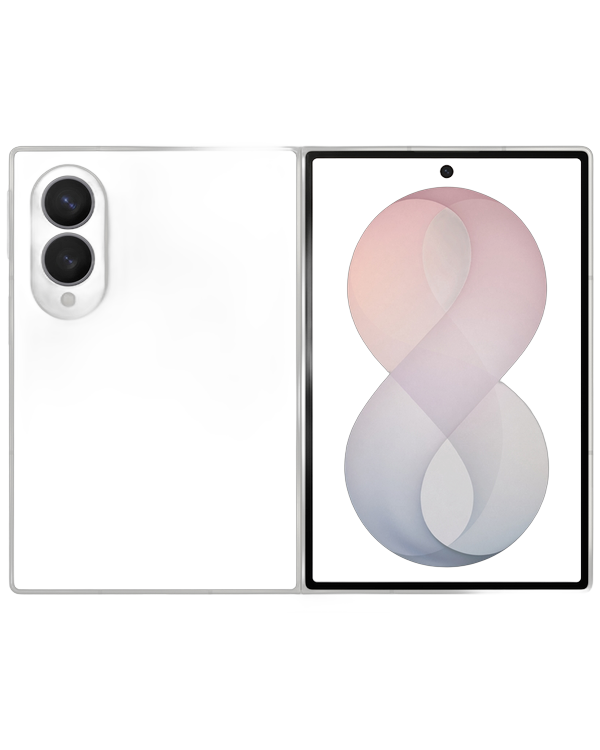
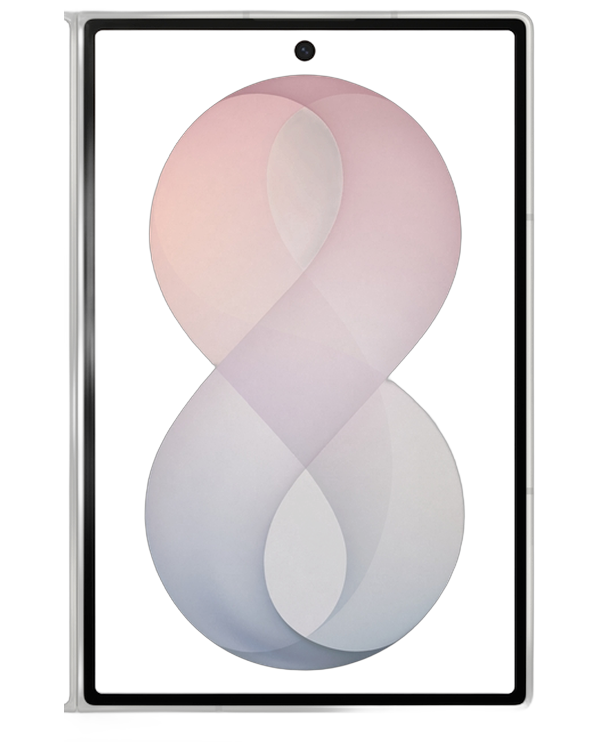
스펙표 이미지 규격 통일 + 색상 스와치 수정 + SEO 최적화
- 폴드8 에셋: 앞뒤 2대 가로 구도 → 펼친 정면 1대 크롭으로 재가공,
  3종 모두 동일 규격(600×750·컨텐츠 높이 통일) — 스펙표·쇼케이스 정렬 일치
- COLOR_HEX에 공식 색상 추가(크림·피스타치오·바이올렛/그린 쉐도우) — 회색 폴백 해소
- SEO: ① 스토어 구조화 데이터 보강(priceRange·hasMap·areaServed)
  ② devices/used에 BreadcrumbList, used에 Service(중고폰 매입) JSON-LD
  ③ 서브페이지 타이틀 키워드 최적화(마장역·중고폰 매입 시세 등)
  ④ JS 미실행 크롤러 대응 noscript 콘텐츠(devices/used)
  ⑤ og:locale·twitter:card 보강, privacy OG, sitemap lastmod, 404.html 신설
- 검증: JSON-LD 파스 전부 유효, Chromium 렌더 3페이지 에러 0

Claude-Session: https://claude.ai/code/session_01EsWowUKLJe4UgNPdG79sTE

diff --git a/used.html b/used.html
@@ -3,7 +3,7 @@
 <head>
 <meta charset="utf-8" />
 <meta name="viewport" content="width=device-width, initial-scale=1, viewport-fit=cover" />
-<title>공일모바일 | 중고폰 판매·매입</title>
+<title>중고폰 매입 시세·판매 — 아이폰·갤럭시 등급별 예상가 | 공일모바일 마장역점</title>
 <meta name="description" content="쓰던 폰은 투명한 등급 기준대로 매입하고, 중고폰은 매장에서 상태를 확인하고 구매하세요. 모델·등급별 예상 매입 범위를 먼저 확인할 수 있습니다. 최종 조건은 매장 상담에서 안내드립니다." />
 <link rel="icon" type="image/png" href="assets/logo.png" />
 <link rel="canonical" href="https://01mobile.co.kr/used.html" />
@@ -13,6 +13,34 @@
 <meta property="og:description" content="중고폰, 팔 때도 살 때도 투명하게 — 모델·등급별 예상 매입 범위를 먼저 확인하세요. 최종 조건은 매장 상담에서 안내드립니다." />
 <meta property="og:image" content="https://01mobile.co.kr/assets/og-image.jpg" />
 <meta property="og:url" content="https://01mobile.co.kr/used.html" />
+<meta property="og:locale" content="ko_KR" />
+<meta name="twitter:card" content="summary_large_image" />
+<script type="application/ld+json">
+{
+  "@context": "https://schema.org",
+  "@type": "BreadcrumbList",
+  "itemListElement": [
+    { "@type": "ListItem", "position": 1, "name": "홈", "item": "https://01mobile.co.kr/" },
+    { "@type": "ListItem", "position": 2, "name": "중고폰 판매·매입", "item": "https://01mobile.co.kr/used.html" }
+  ]
+}
+</script>
+<script type="application/ld+json">
+{
+  "@context": "https://schema.org",
+  "@type": "Service",
+  "name": "중고폰 매입·판매",
+  "serviceType": "휴대폰 중고 매입 및 판매",
+  "areaServed": ["성동구", "마장동", "왕십리"],
+  "provider": {
+    "@type": "MobilePhoneStore",
+    "name": "공일모바일",
+    "telephone": "+82-10-7932-9779",
+    "address": { "@type": "PostalAddress", "streetAddress": "마장로 305 1층", "addressLocality": "성동구", "addressRegion": "서울특별시", "addressCountry": "KR" }
+  },
+  "description": "아이폰·갤럭시 중고폰을 공개된 등급 기준(A/B/C)에 따라 매입합니다. 모델·등급별 예상 매입 범위를 온라인으로 먼저 확인할 수 있으며, 최종 매입가는 매장에서 기기 상태 확인 후 확정됩니다."
+}
+</script>
 <meta property="og:locale" content="ko_KR" />
 <meta name="twitter:card" content="summary_large_image" />
 
@@ -31,6 +59,15 @@
 </head>
 <body>
 <div id="root"></div>
+<noscript>
+  <div style="max-width:640px;margin:48px auto;padding:0 20px;line-height:1.7;">
+    <h1>공일모바일 — 중고폰 매입·판매</h1>
+    <p>아이폰 17·16·15·14·13 시리즈, 갤럭시 S26~S20·Z 폴드·Z 플립·A 시리즈 중고폰을
+    공개 등급 기준(A/B/C)으로 매입합니다. 모델·등급별 예상 매입 범위를 사이트에서 먼저 확인하고
+    방문하세요. 최종 매입가는 매장에서 기기 상태 확인 후 확정됩니다. 중고폰 구매도 가능합니다.</p>
+    <p>마장역 2번 출구 도보 1분 · <a href="tel:010-7932-9779">010-7932-9779</a> · <a href="index.html">홈으로</a></p>
+  </div>
+</noscript>
 
 <script type="text/babel" src="components.jsx"></script>
 <script type="text/babel" src="sections-bottom.jsx"></script>

diff --git a/devices.html b/devices.html
@@ -3,7 +3,7 @@
 <head>
 <meta charset="utf-8" />
 <meta name="viewport" content="width=device-width, initial-scale=1, viewport-fit=cover" />
-<title>공일모바일 | 기기 전체보기</title>
+<title>휴대폰 기기 전체보기 — 아이폰17·갤럭시 S26·폴드8 | 공일모바일 마장역점</title>
 <meta name="description" content="아이폰·갤럭시 플래그십부터 폴더블, 실속·효도폰까지 — 공일모바일이 취급하는 기기 라인업을 한눈에 보고 예상 월 납부액 범위를 확인하세요. 최종 조건은 매장 상담에서 투명하게 안내드립니다." />
 <link rel="icon" type="image/png" href="assets/logo.png" />
 <link rel="canonical" href="https://01mobile.co.kr/devices.html" />
@@ -13,6 +13,18 @@
 <meta property="og:description" content="아이폰·갤럭시 플래그십부터 폴더블, 실속·효도폰까지 — 취급 기기 라인업과 예상 월 납부액 범위를 한눈에 확인하세요." />
 <meta property="og:image" content="https://01mobile.co.kr/assets/og-image.jpg" />
 <meta property="og:url" content="https://01mobile.co.kr/devices.html" />
+<meta property="og:locale" content="ko_KR" />
+<meta name="twitter:card" content="summary_large_image" />
+<script type="application/ld+json">
+{
+  "@context": "https://schema.org",
+  "@type": "BreadcrumbList",
+  "itemListElement": [
+    { "@type": "ListItem", "position": 1, "name": "홈", "item": "https://01mobile.co.kr/" },
+    { "@type": "ListItem", "position": 2, "name": "기기 전체보기", "item": "https://01mobile.co.kr/devices.html" }
+  ]
+}
+</script>
 <meta property="og:locale" content="ko_KR" />
 <meta name="twitter:card" content="summary_large_image" />
 
@@ -31,6 +43,14 @@
 </head>
 <body>
 <div id="root"></div>
+<noscript>
+  <div style="max-width:640px;margin:48px auto;padding:0 20px;line-height:1.7;">
+    <h1>공일모바일 — 기기 전체보기</h1>
+    <p>아이폰 17 시리즈·아이폰 에어, 갤럭시 S26 시리즈, 갤럭시 Z 폴드8 울트라·폴드8·플립8,
+    실속형·효도폰까지 취급합니다. 예상 월 납부액은 범위로 안내하며 최종 조건은 매장 상담에서 확정됩니다.</p>
+    <p>마장역 2번 출구 도보 1분 · <a href="tel:010-7932-9779">010-7932-9779</a> · <a href="index.html">홈으로</a></p>
+  </div>
+</noscript>
 
 <script type="text/babel" src="components.jsx"></script>
 <script type="text/babel" src="sections-bottom.jsx"></script>

diff --git a/404.html b/404.html
@@ -1,0 +1,24 @@
+<!doctype html>
+<html lang="ko">
+<head>
+<meta charset="utf-8" />
+<meta name="viewport" content="width=device-width, initial-scale=1, viewport-fit=cover" />
+<title>페이지를 찾을 수 없어요 | 공일모바일</title>
+<meta name="robots" content="noindex" />
+<link rel="icon" type="image/png" href="assets/logo.png" />
+<link rel="stylesheet" href="styles.css" />
+</head>
+<body>
+<div style="max-width:560px;margin:96px auto;padding:0 20px;text-align:center;line-height:1.7;">
+  <p style="font-size:52px;margin:0;">📵</p>
+  <h1 style="margin:12px 0 8px;">페이지를 찾을 수 없어요</h1>
+  <p style="color:#6b7280;">주소가 바뀌었거나 없는 페이지예요. 아래에서 원하시는 곳으로 이동해 주세요.</p>
+  <p style="margin-top:24px;">
+    <a class="btn btn-primary" href="/">홈으로</a>
+  </p>
+  <p style="margin-top:14px;font-size:14.5px;">
+    <a href="/devices.html">기기 전체보기</a> · <a href="/used.html">중고폰 매입·판매</a> · <a href="/#booking">방문 상담 예약</a>
+  </p>
+</div>
+</body>
+</html>

diff --git a/index.html b/index.html
@@ -22,6 +22,9 @@
   "@type": "MobilePhoneStore",
   "name": "공일모바일",
   "telephone": "+82-10-7932-9779",
+  "priceRange": "₩₩",
+  "hasMap": "https://naver.me/FHOAX0ay",
+  "areaServed": ["성동구", "마장동", "왕십리", "행당동", "사근동"],
   "url": "https://01mobile.co.kr/",
   "image": "https://01mobile.co.kr/assets/store-exterior.jpg",
   "address": {
@@ -42,6 +45,8 @@
 }
 </script>
 
+<link rel="preconnect" href="https://unpkg.com" crossorigin />
+<link rel="preconnect" href="https://cdn.jsdelivr.net" crossorigin />
 <link rel="preconnect" href="https://fonts.googleapis.com" />
 <link rel="preconnect" href="https://fonts.gstatic.com" crossorigin />
 <link rel="stylesheet" href="https://cdn.jsdelivr.net/gh/orioncactus/pretendard@v1.3.9/dist/web/static/pretendard.min.css" />

diff --git a/privacy.html b/privacy.html
@@ -6,6 +6,9 @@
 <title>개인정보처리방침 | 공일모바일</title>
 <meta name="description" content="공일모바일 개인정보처리방침" />
 <link rel="canonical" href="https://01mobile.co.kr/privacy.html" />
+<meta property="og:type" content="website" />
+<meta property="og:title" content="개인정보처리방침 | 공일모바일" />
+<meta property="og:url" content="https://01mobile.co.kr/privacy.html" />
 <link rel="icon" type="image/png" href="assets/logo.png" />
 <link rel="stylesheet" href="https://cdn.jsdelivr.net/gh/orioncactus/pretendard@v1.3.9/dist/web/static/pretendard.min.css" />
 <link href="https://fonts.googleapis.com/css2?family=Inter:wght@400;500;600;700&display=swap" rel="stylesheet" />

diff --git a/showcase.jsx b/showcase.jsx
@@ -17,7 +17,8 @@ const COLOR_HEX = {
   "코발트 바이올렛": "#4a3a6e", "블랙": "#1a1a1e", "실버 쉐도우": "#b8b8be",
   "티타늄 실버": "#c0c0c2", "티타늄 블랙": "#2a2a2e", "티타늄 그레이": "#6d6e72", "티타늄 화이트": "#ebebe8", "제이드 그린": "#6d8472",
   "블루 섀도": "#5a6f88", "실버 섀도": "#a8aab0", "코랄 레드": "#c46862", "제트블랙": "#1a1a1e", "민트": "#aac9b6", "핑크": "#e2a8b2",
-  "그라파이트": "#3a3a3e"
+  "그라파이트": "#3a3a3e", "크림": "#f0e9da", "피스타치오": "#cbd5a8",
+  "바이올렛 쉐도우": "#4a3b52", "그린 쉐도우": "#3f4a41"
 };
 
 const SHOWCASE = {
